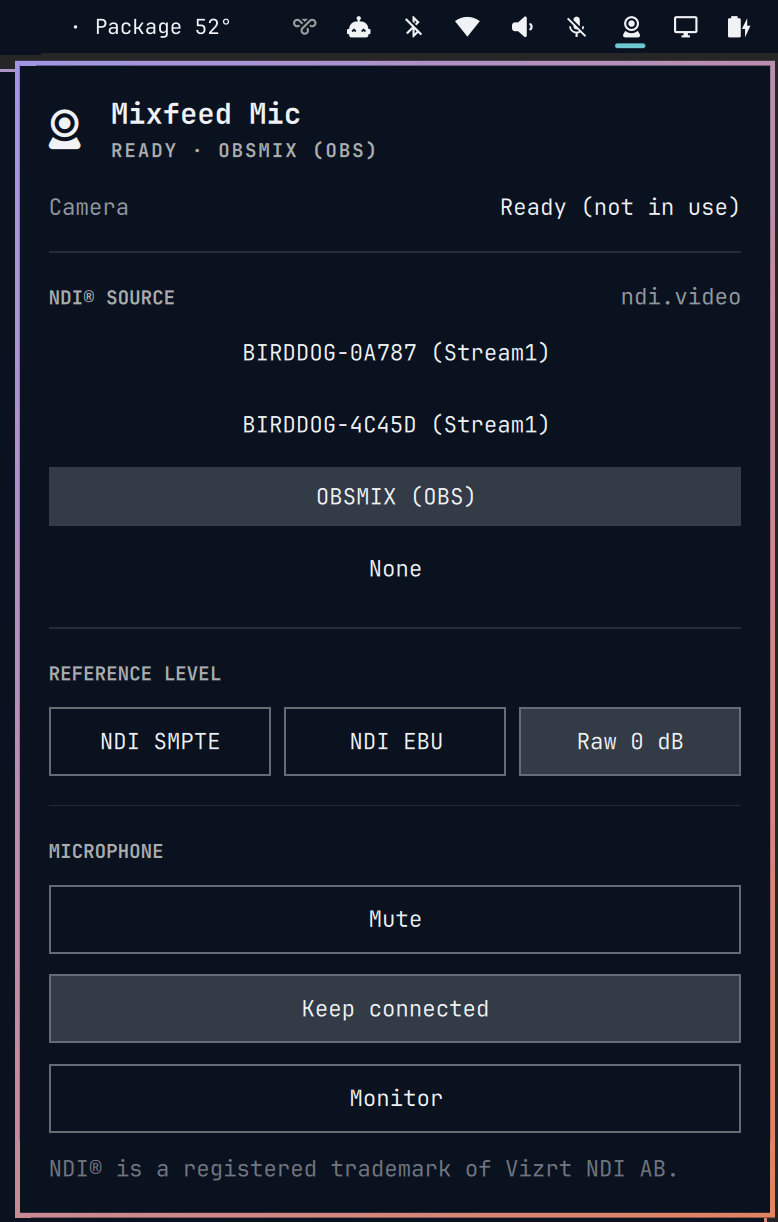
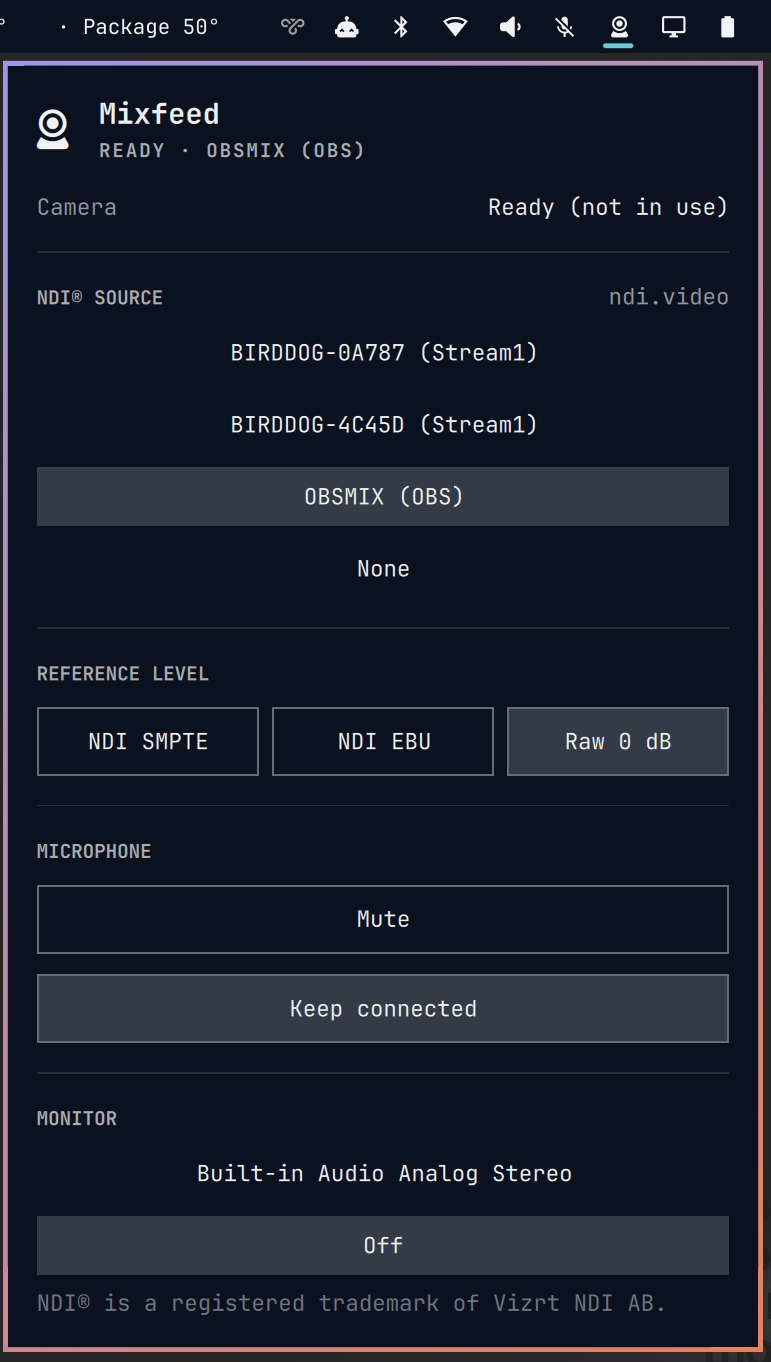
Mixfeed 0.1.3: describe what Mixfeed does, new screenshots

diff --git a/README.md b/README.md
@@ -1,6 +1,6 @@
 # Mixfeed widget for Omarchy
 
-Bar widget for [Mixfeed](https://github.com/vpacher/mixfeed). Mixfeed receives an [NDI®](https://ndi.video/) source on Linux and gives it to your applications as a microphone ("Mixfeed Mic") and a webcam ("Mixfeed").
+Use an [NDI®](https://ndi.video/) source as a virtual webcam and microphone in any app. [Mixfeed](https://github.com/vpacher/mixfeed) receives the NDI source on Linux and gives it to your applications as a webcam ("Mixfeed") and a microphone ("Mixfeed Mic"). This is its bar widget.
 
 The widget shows the state of the microphone and the camera, and lights up while an application uses them (on air). Its panel selects the NDI source and the reference level, and controls Mute, Keep connected and the headphone Monitor.
 
@@ -22,15 +22,15 @@ The widget is the control for the Mixfeed service `mixfeedd`. It does not receiv
 
 ## Install
 
-This widget release was tested with Mixfeed commit `16b41934c48dc3dc4ef10be57e44dce444045816`. The procedure installs exactly that commit, not a branch or a tag.
+This widget release was tested with Mixfeed commit `a7fa1506b6421f7085fcefe4984da493fc7a33a3`. The procedure installs exactly that commit, not a branch or a tag.
 
-1. Do the preparation steps 1–3 of the Mixfeed README at that commit: [Mixfeed, section 3 "Install"](https://github.com/vpacher/mixfeed/blob/16b41934c48dc3dc4ef10be57e44dce444045816/README.md#3-install) (requirements, camera module).
+1. Do the preparation steps 1–3 of the Mixfeed README at that commit: [Mixfeed, section 3 "Install"](https://github.com/vpacher/mixfeed/blob/a7fa1506b6421f7085fcefe4984da493fc7a33a3/README.md#3-install) (requirements, camera module).
 
 2. Get Mixfeed at the tested commit, then build and install it:
 
    ```sh
    git clone https://github.com/vpacher/mixfeed.git ~/.local/share/mixfeed/source &&
-     git -C ~/.local/share/mixfeed/source checkout --detach 16b41934c48dc3dc4ef10be57e44dce444045816 &&
+     git -C ~/.local/share/mixfeed/source checkout --detach a7fa1506b6421f7085fcefe4984da493fc7a33a3 &&
      ~/.local/share/mixfeed/source/linux/install.sh
    ```
 
@@ -84,7 +84,7 @@ The widget calls `~/.local/bin/mfctl` (installed with Mixfeed) to read the state
 
 ## Security
 
-Report vulnerabilities privately; see [SECURITY.md of Mixfeed](https://github.com/vpacher/mixfeed/blob/16b41934c48dc3dc4ef10be57e44dce444045816/SECURITY.md).
+Report vulnerabilities privately; see [SECURITY.md of Mixfeed](https://github.com/vpacher/mixfeed/blob/a7fa1506b6421f7085fcefe4984da493fc7a33a3/SECURITY.md).
 
 ## Licence
 
